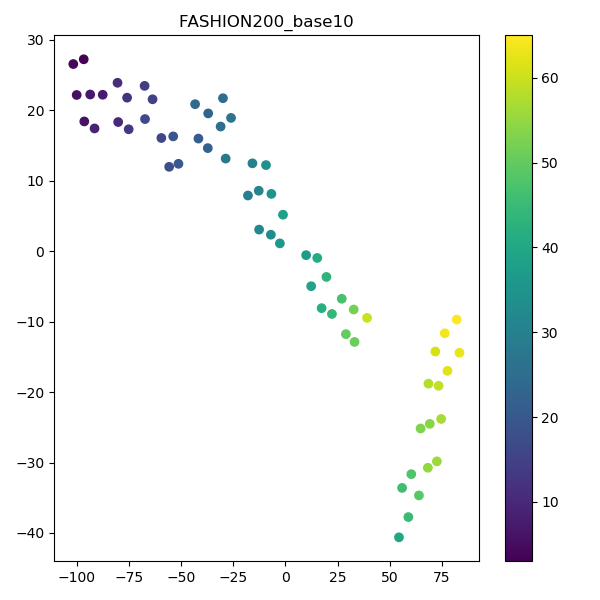
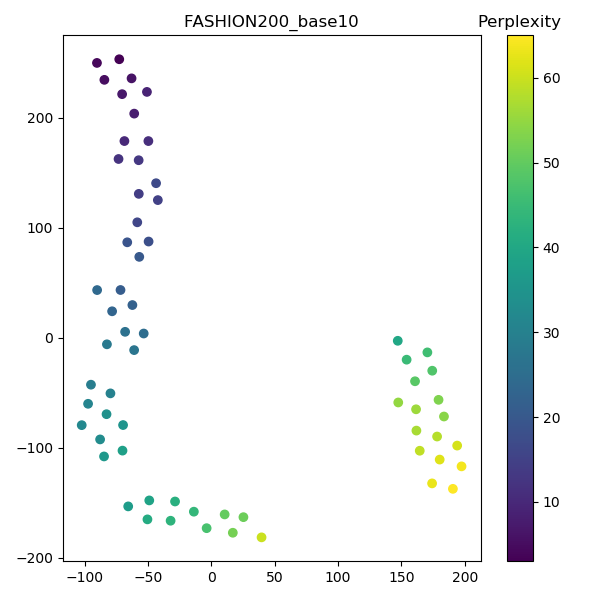
Add colorbar title

diff --git a/code/scripts/run_plots.py b/code/scripts/run_plots.py
@@ -171,7 +171,8 @@ def plot_metamap(run_range, base_perp=None, earlystop=""):
     plt.figure(figsize=(6, 6))
     plt.scatter(meta_Z[:, 0], meta_Z[:, 1], c=all_perps)
     plt.title(out_name)
-    plt.colorbar()
+    cbar = plt.colorbar()
+    cbar.ax.set_title("Perplexity")
     plt.tight_layout()
     plt.savefig(f"./plot_chain/metamap/{out_name}.png")
 
